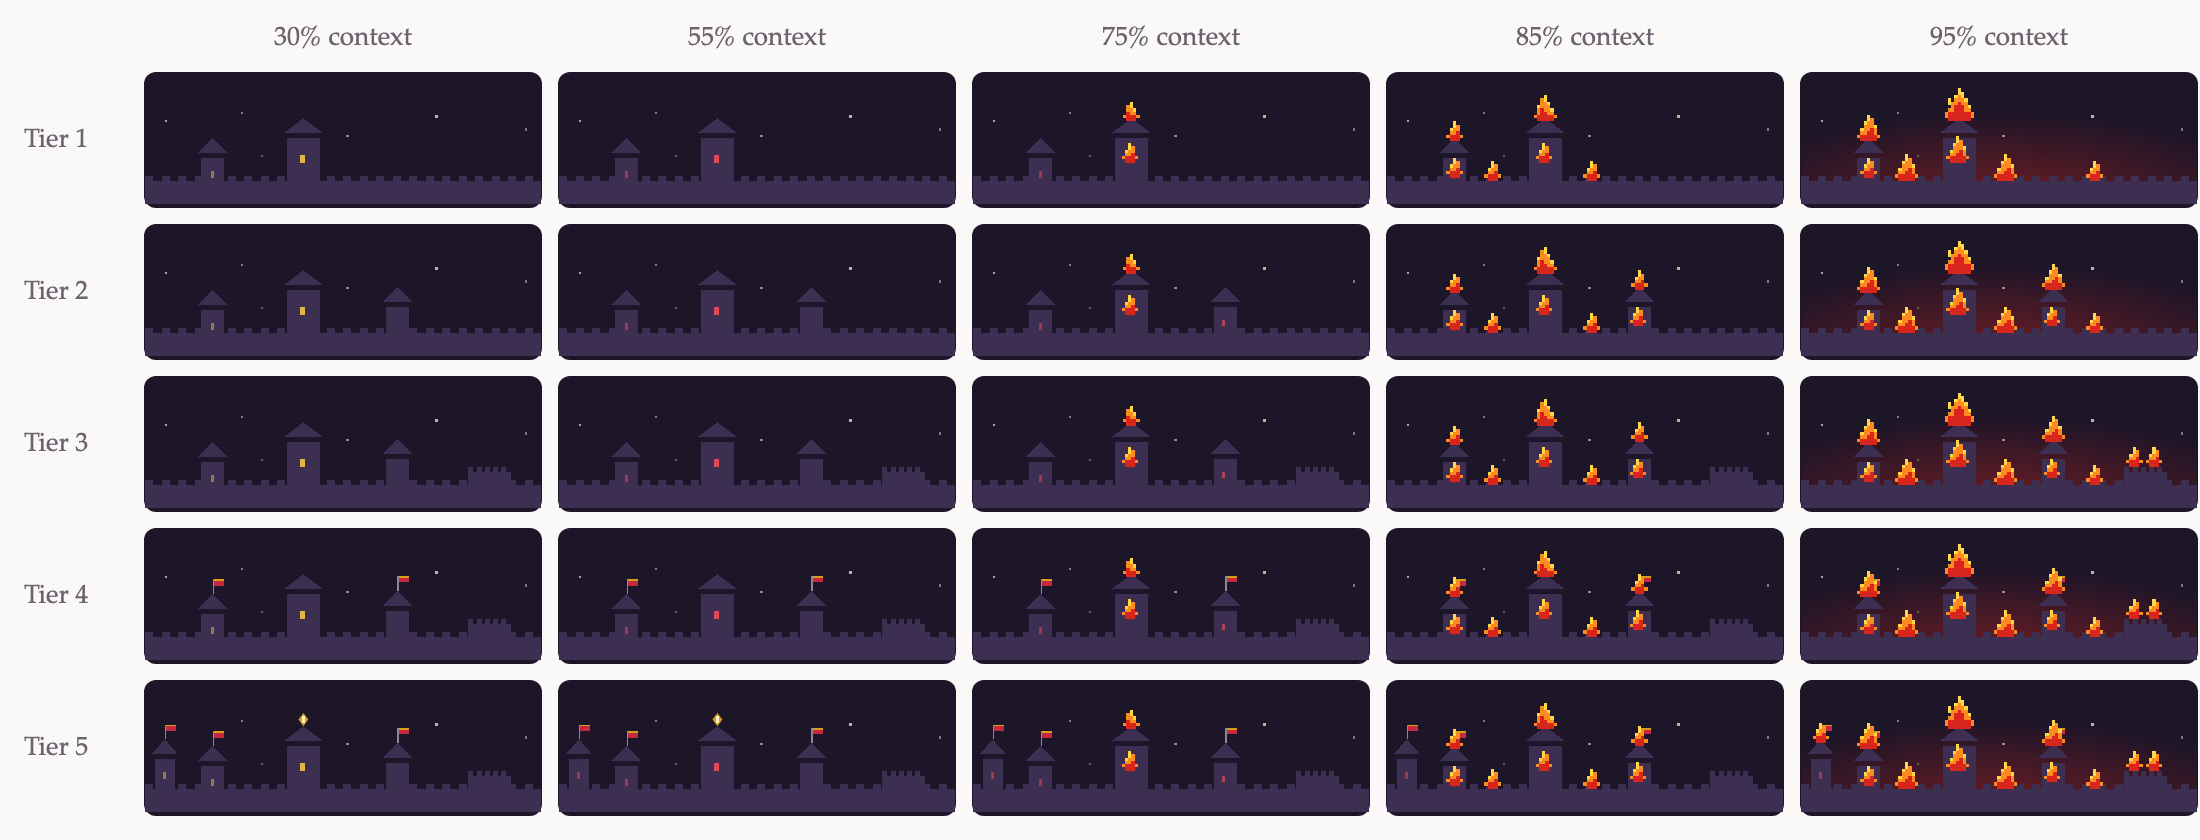
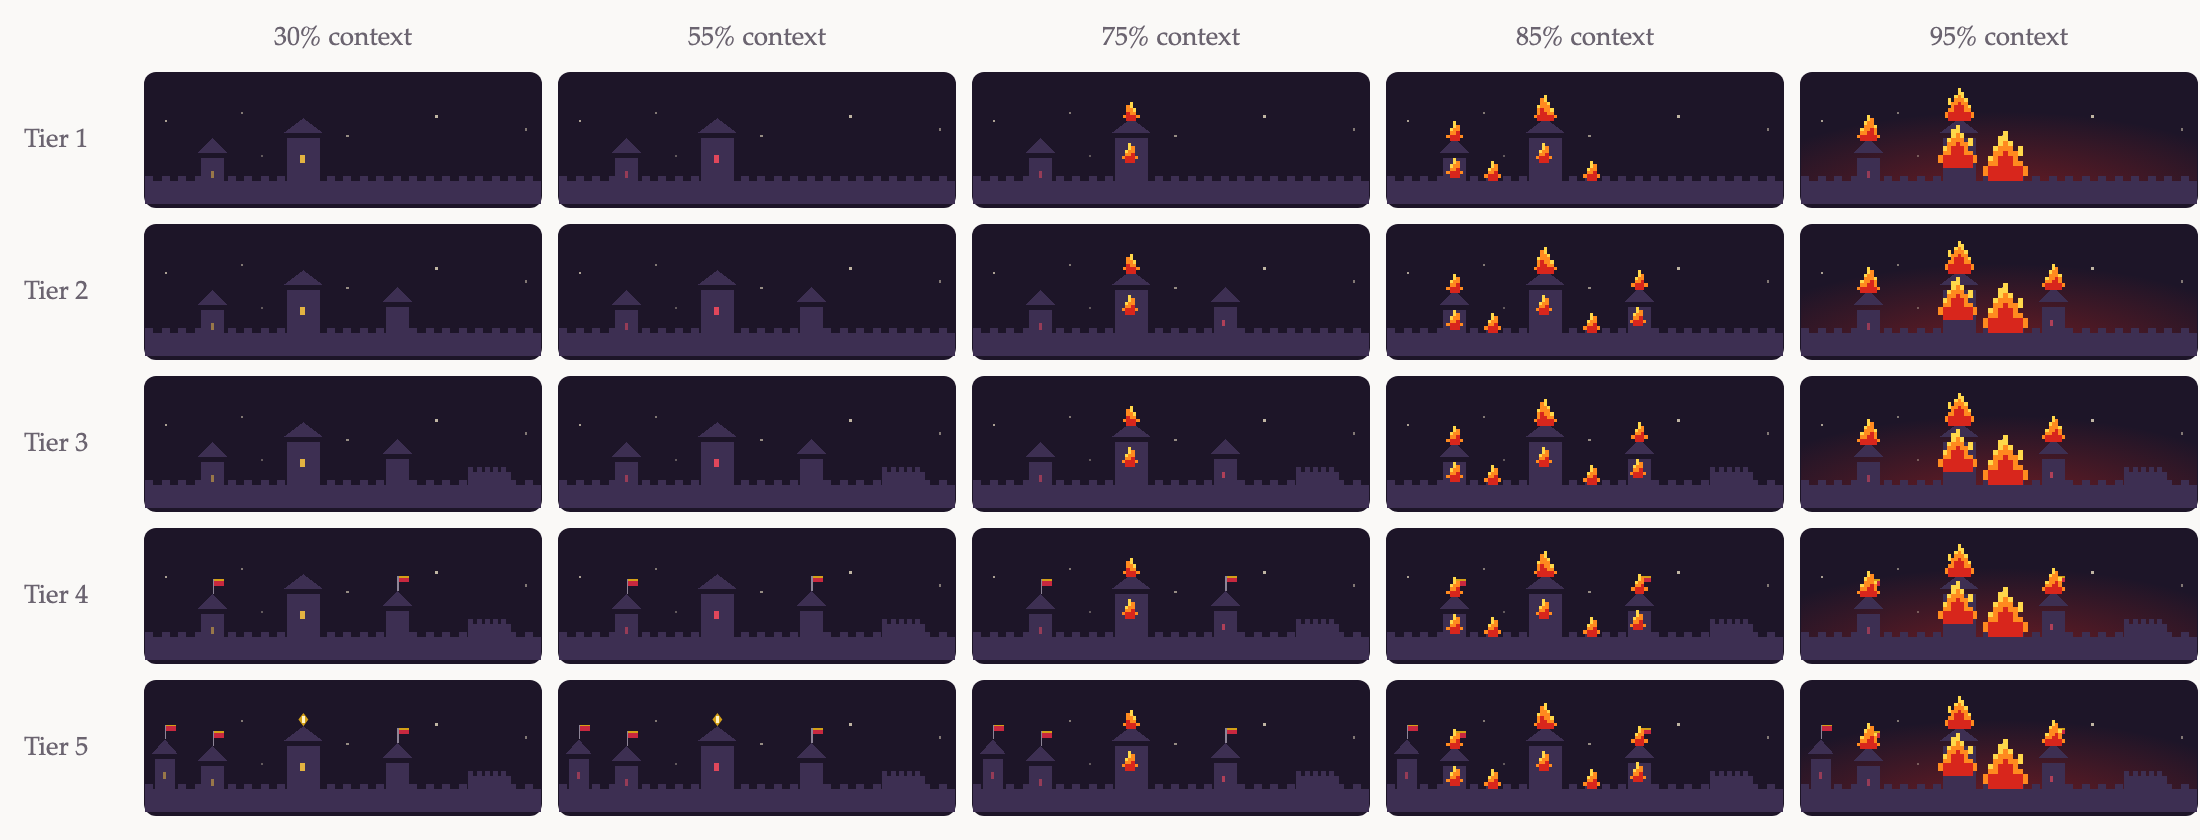
At 90%, fewer but bigger fires
The main tower burns top to bottom, one great fire sits on the wall,
and the side roofs burn; the smaller scattered fires are gone.

diff --git a/hooks/svg.ts b/hooks/svg.ts
@@ -321,9 +321,8 @@ export function fireLevel(percent: number): 'none' | 'small' | 'medium' | 'big' 
 }
 
 /** A flickering flame, its base centered at (cx, baseY): two frames, the second mirrored. */
-function flame(size: 'small' | 'medium' | 'big', cx: number, baseY: number, delay: number): string {
+function flame(size: 'small' | 'medium' | 'big', cx: number, baseY: number, delay: number, px = 2): string {
   const rows = FLAMES[size]
-  const px = 2
   const w = (rows[0]?.length ?? 0) * px
   const x = cx - w / 2
   const y = baseY - rows.length * px
@@ -406,7 +405,8 @@ export function castleSvg(percent = 0, tier = 4): { source: string; alt: string;
   const flames =
     fire === 'small' ? flame('small', main, 2, 0) + flame('small', 95, 27, 0.1)
     : fire === 'medium' ? flame('medium', main, 2, 0) + side('small', 0.1) + windowFire('small', 0.05) + wallFire(['small', 'small'])
-    : fire === 'big' ? flame('big', main, 2, 0) + side('medium', 0.1) + windowFire('medium', 0.05) + wallFire(['medium', 'medium', 'small']) + (has(KEEP) ? flame('small', 202, 27, 0.15) + flame('small', 214, 27, 0.05) : '') + (has(OUTER) ? flame('small', 12, 10, 0.12) : '')
+    // At 90% fewer fires but bigger: the main tower ablaze top to bottom, and one great fire on the wall.
+    : fire === 'big' ? flame('big', main, 2, 0) + side('medium', 0.1) + flame('big', 95, 30, 0.05, 2.6) + flame('big', 124, 38, 0.12, 3)
     : ''
   const glow = fire === 'big'
     ? `<defs><radialGradient id="blaze" cx="50%" cy="100%" r="70%"><stop offset="0%" stop-color="#d8261c" stop-opacity=".45"/><stop offset="100%" stop-color="#d8261c" stop-opacity="0"/></radialGradient></defs><rect x="0" y="0" width="240" height="${60 + DY}" fill="url(#blaze)"/>`

diff --git a/hooks/hud.test.ts b/hooks/hud.test.ts
@@ -116,7 +116,7 @@ test('castle burns as the context fills', () => {
   expect(castleSvg(72).source.match(/class="fa"/g)?.length).toBe(2) // the roof and the main window
   expect(castleSvg(72).source).toContain('#e0475b')
   expect(castleSvg(83).source.match(/class="fa"/g)?.length).toBe(8) // roofs, windows and the wall
-  expect(castleSvg(95).source.match(/class="fa"/g)?.length).toBe(11)
+  expect(castleSvg(95).source.match(/class="fa"/g)?.length).toBe(5) // fewer, bigger fires
   expect(castleSvg(95).source).toContain('blaze')
 })
 
